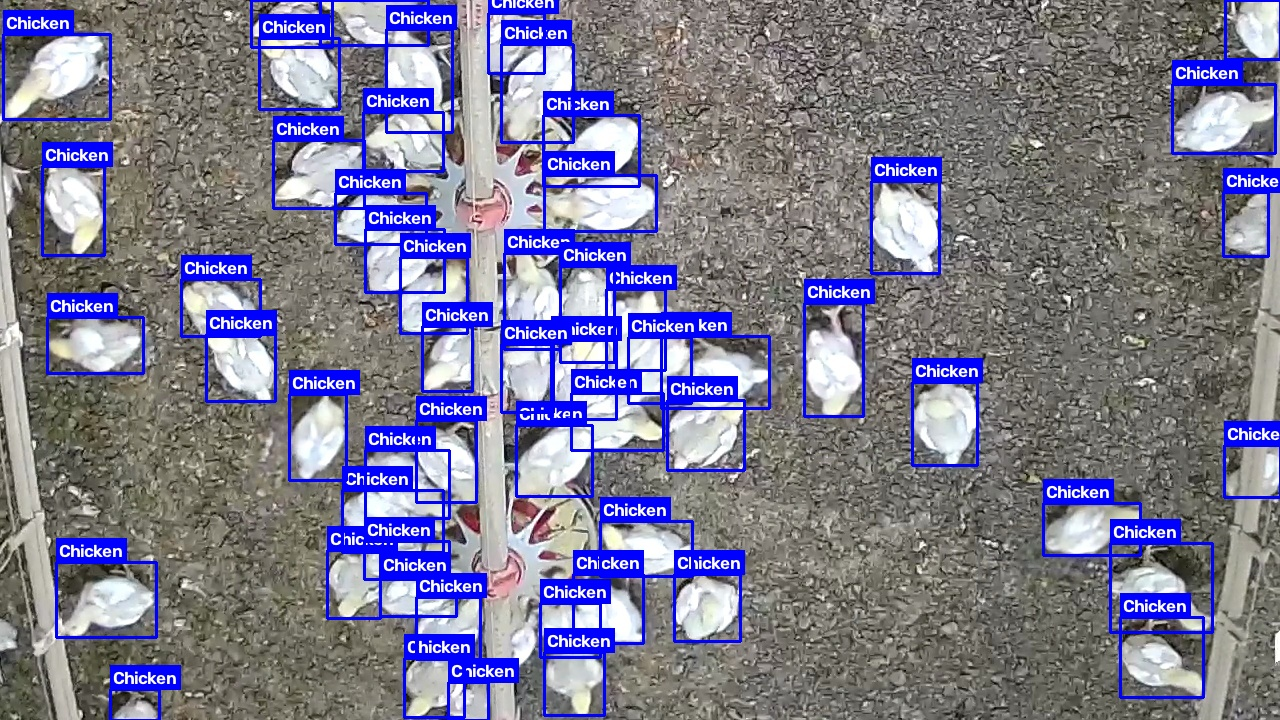
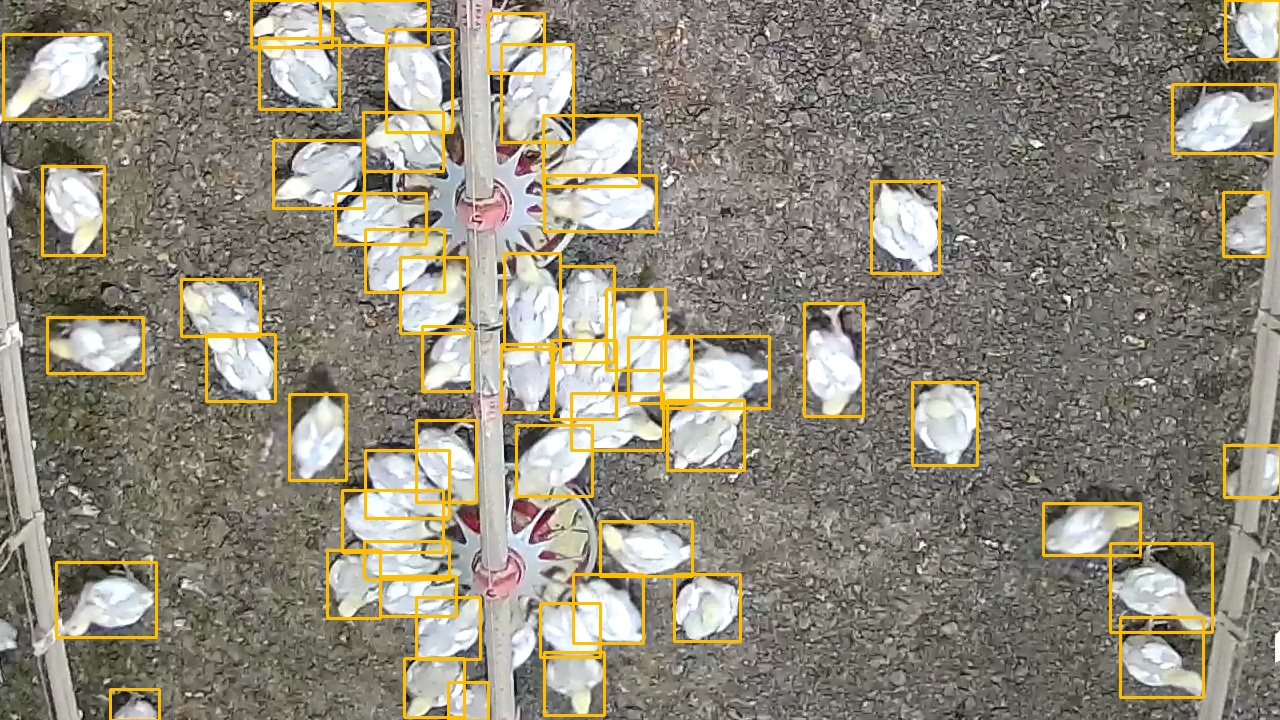
Redesign GT/prediction images: thin label-free boxes, gold/teal
Went through a few iterations on this: Ultralytics' default
Annotator (used for the first version) sizes line-width/font for
typical images, not ~50-60 boxes in one frame - way too heavy here.
Tried a corner-marker style (info at the 4 corners only, common
technique for dense/crowded scenes) but continuous thin outlines
read better once color/thickness were fixed, so settled there.

Final style: 2px continuous rectangles, no per-box text (single
class - a repeated "Chicken" label was pure noise at this density),
gold for ground truth vs. teal for predictions as the only
distinguishing cue between the two. README caption updated to match
(no longer references overlapping text labels).

diff --git a/poultry_monitoring/README.md b/poultry_monitoring/README.md
@@ -159,14 +159,14 @@ This table reflects the state as of the last update — [`plan.md`](plan.md) Pha
 
 ### Sample Predictions
 
-Two images from the **test split** — never used for training, tuning, or any validation-based decision — run through `yolo26n`'s final checkpoint (`conf=0.36`, CPU inference). Ground truth alongside each prediction, same images:
+Two images from the **test split** — never used for training, tuning, or any validation-based decision — run through `yolo26n`'s final checkpoint (`conf=0.36`, CPU inference). Ground truth alongside each prediction, same images. Boxes only, no per-instance labels — with ~50 birds in frame, a "Chicken" tag on every box is noise, not signal, for a single-class dataset:
 
 | Ground truth | Prediction |
 |---|---|
 | ![Ground truth example 1: dense overhead flock, annotated boxes](docs/images/test_ground_truth_1.jpg) | ![Prediction example 1: dense overhead flock with detection boxes](docs/images/test_prediction_1.jpg) |
 | ![Ground truth example 2: dense overhead flock, annotated boxes](docs/images/test_ground_truth_2.jpg) | ![Prediction example 2: dense overhead flock with detection boxes](docs/images/test_prediction_2.jpg) |
 
-56 ground-truth birds vs. 60 predicted in the first image, 42 vs. 44 in the second — close counts, and the extra predictions are mostly genuine partial birds at the frame edge that the model still caught. Confidence is mostly 0.8+ even in tightly overlapping clusters and against low-contrast litter. The overlapping labels in the densest clusters are the scene, not a rendering artifact — this is genuinely what "~23 birds/image, up to 50+" looks like at full resolution.
+56 ground-truth birds vs. 60 predicted in the first image, 42 vs. 44 in the second — close counts, and the extra predictions are mostly genuine partial birds at the frame edge that the model still caught. This is genuinely what "~23 birds/image, up to 50+" looks like at full resolution — the box density is the scene, not a rendering artifact.
 
 ## Key Findings
 
